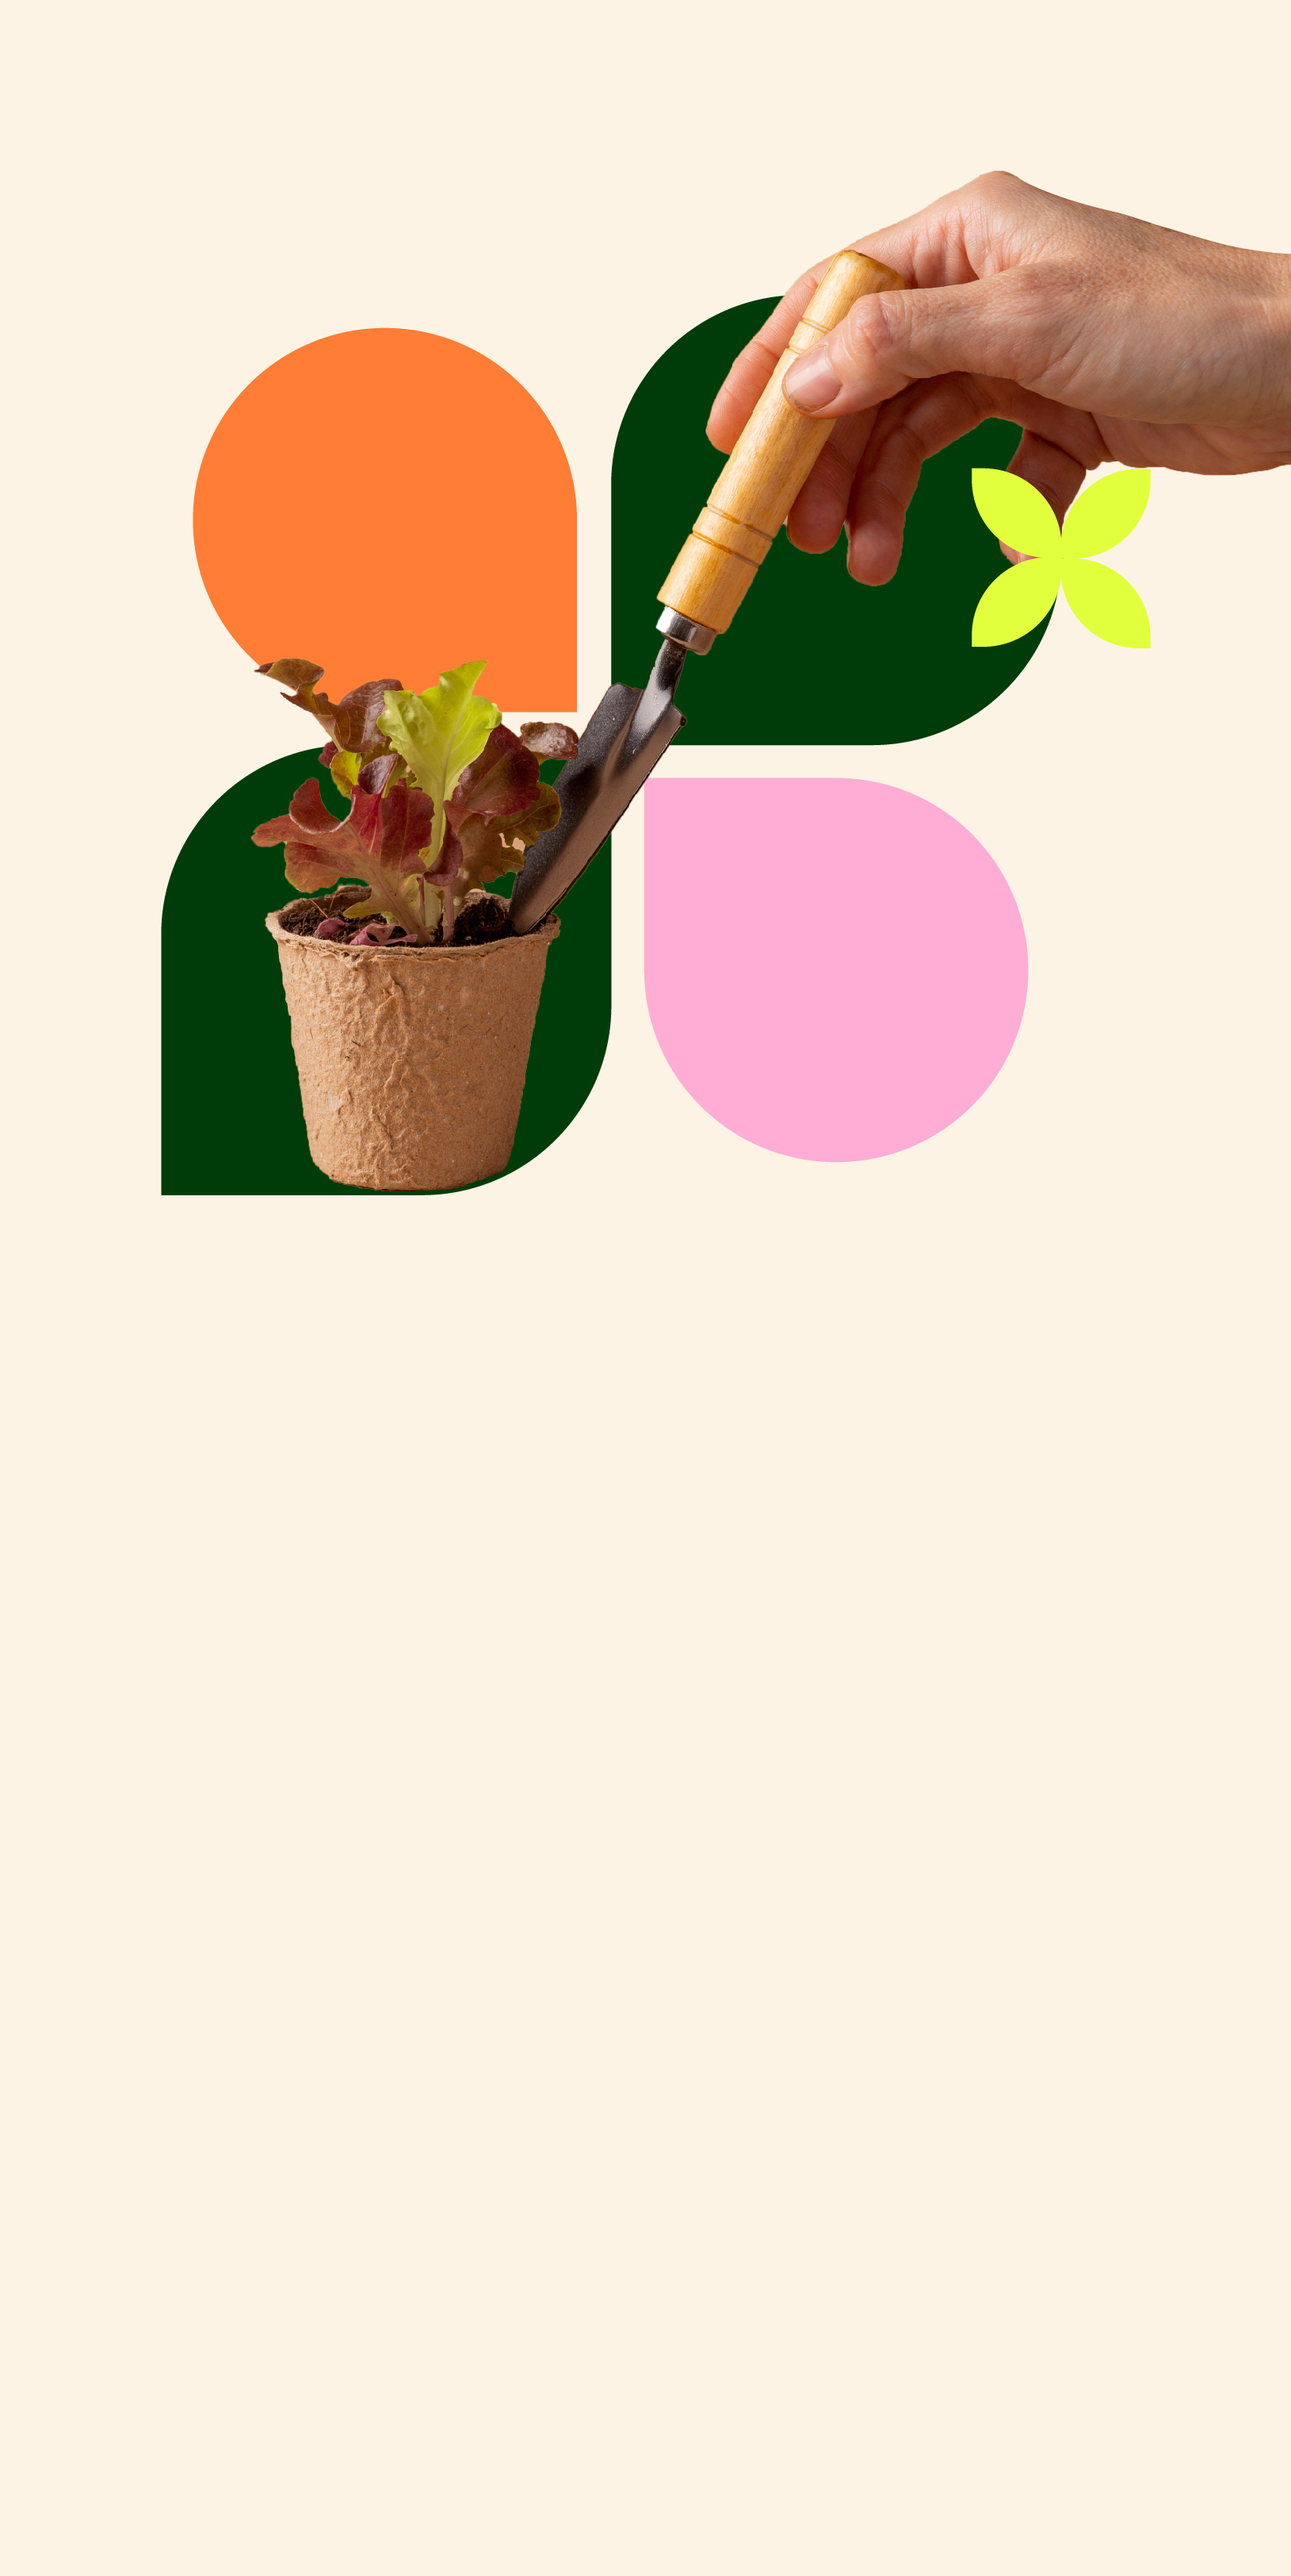
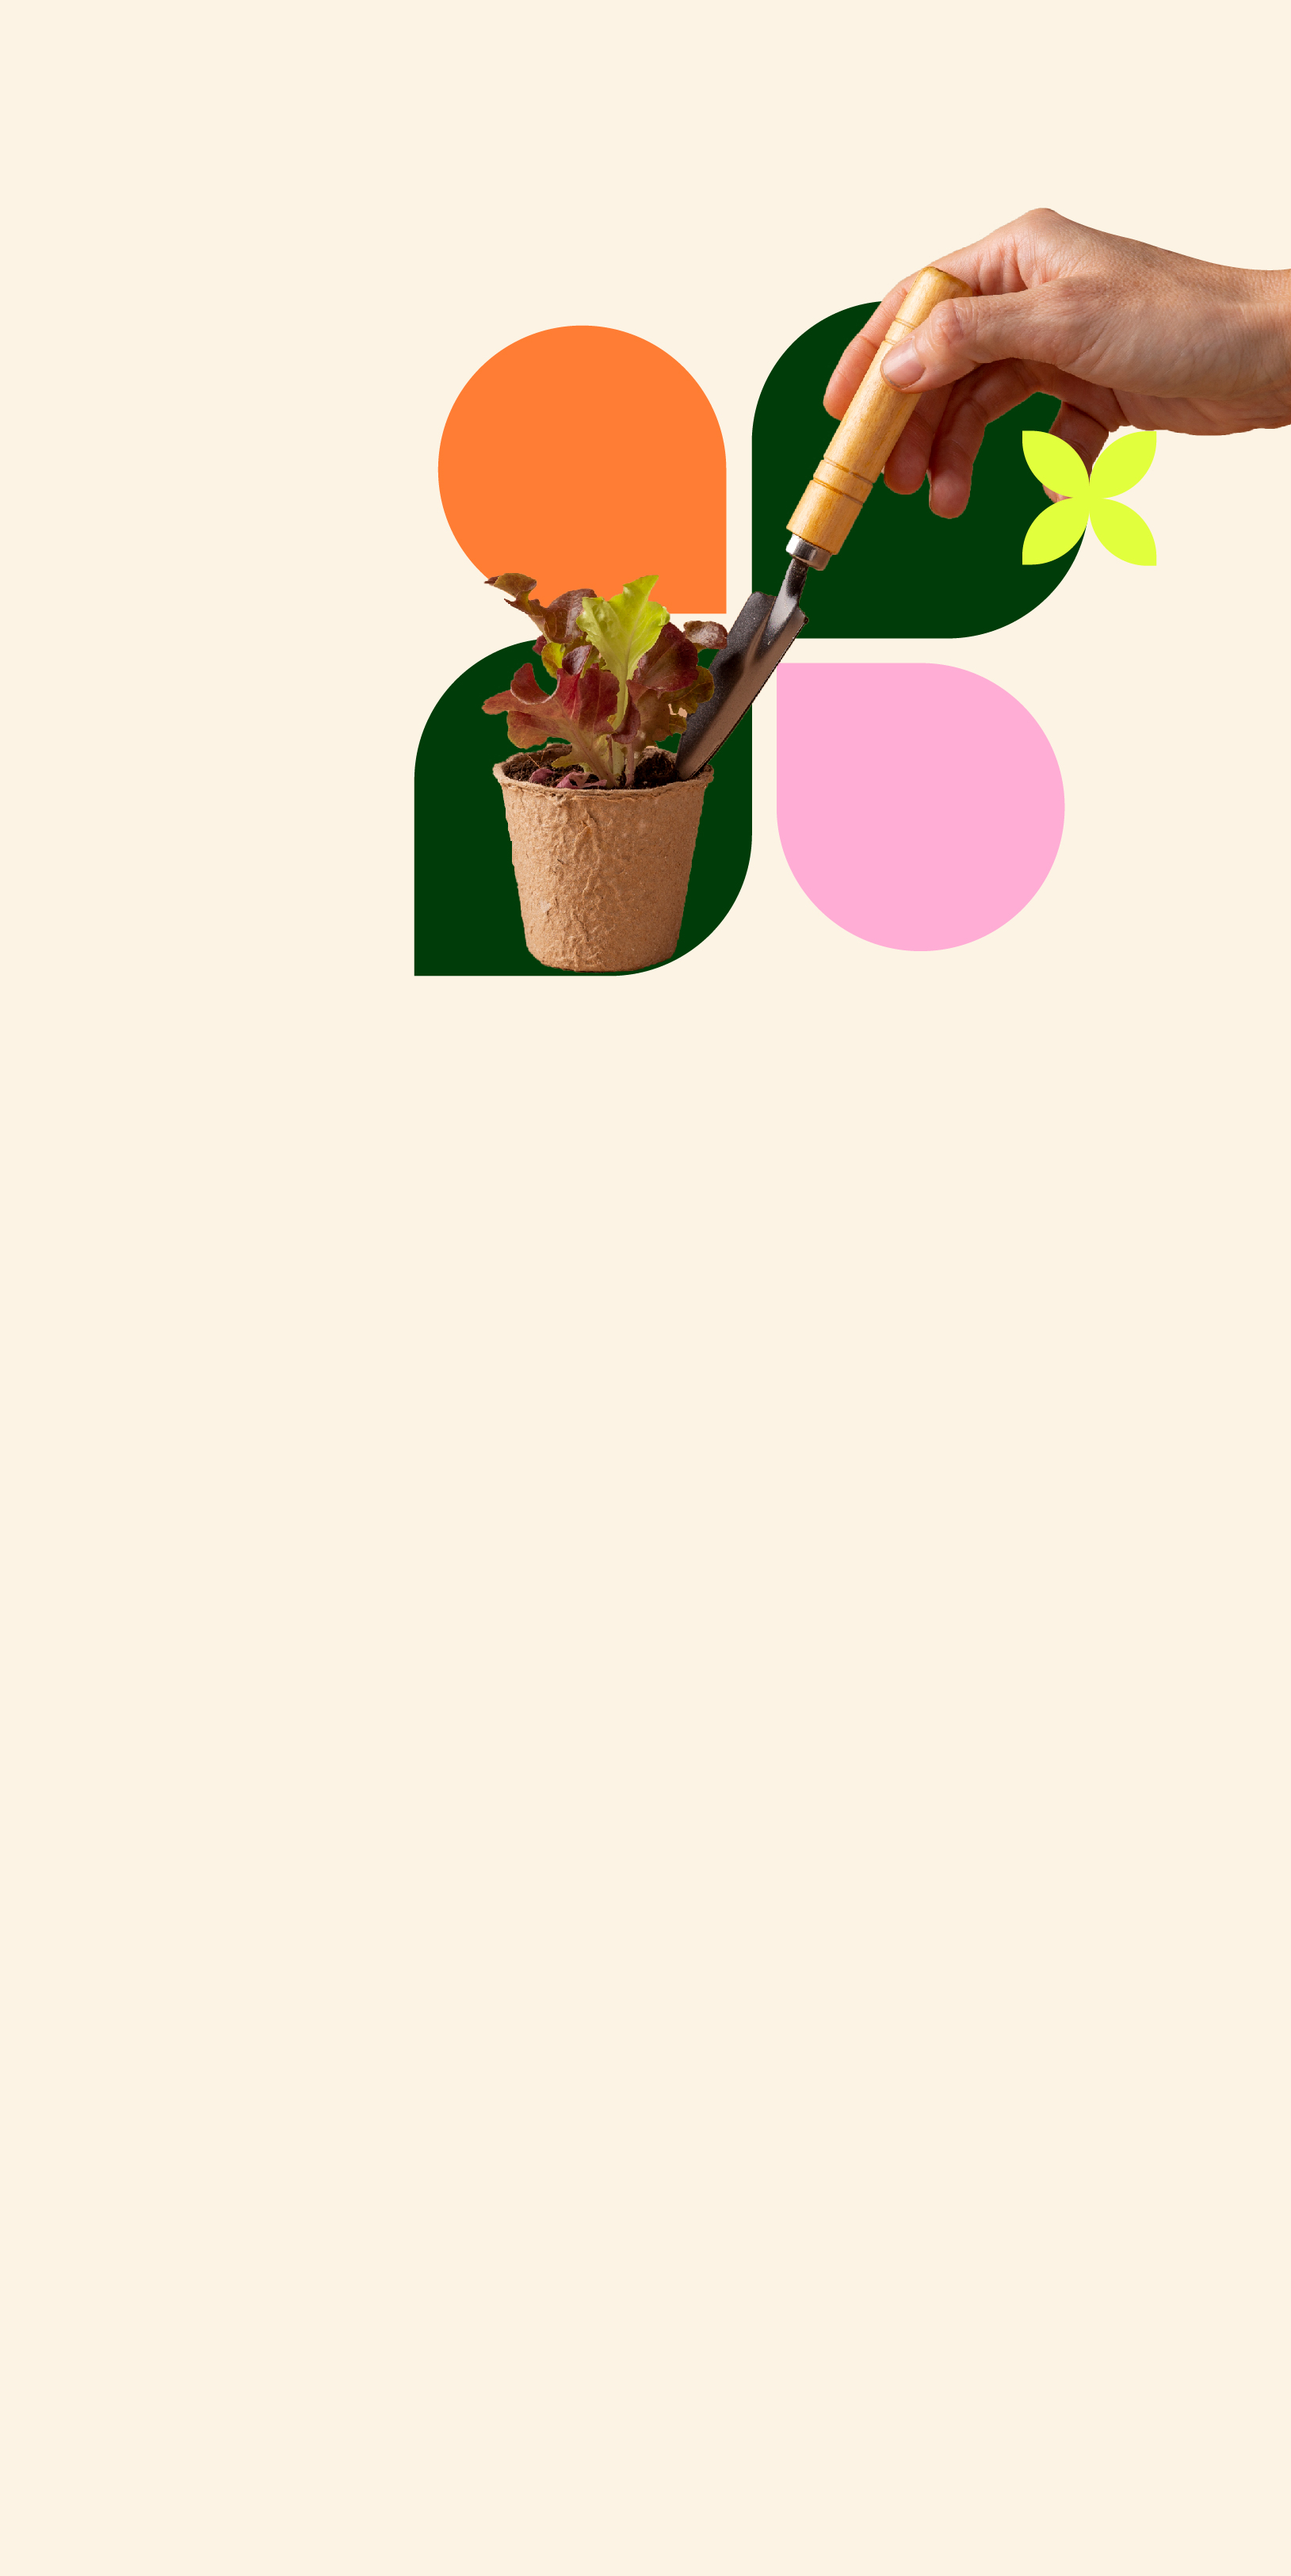
cambios

Changed region(s): [[0.1228, 0.0622, 1.0, 0.4662]]

diff --git a/assets/css/main.css b/assets/css/main.css
@@ -865,7 +865,7 @@ section,
 .hero {
   background-image: url("../../assets/img/hero1-mobile.jpg") ;
   background-position: center bottom;
-  padding: 150px 0 320px 10px;
+  padding: 0px 0 320px 10px;
 }
 
 
@@ -1101,18 +1101,56 @@ section,
 
 @media (max-width: 768px) {
 
+
+  .about {
+    padding-left: 8px;
+    padding-right: 8px;
+  }
+
   .about .icon-boxes .col-md-6:nth-child(2) .icon-box,
   .about .icon-boxes .col-md-6:nth-child(4) .icon-box {
     margin-top: 0;
   }
-}
+
+
+  .about .content h2 {
+    font-size: 32px;
+    font-weight: 700;
+    position: relative;
+    /* text-align: center; */
+  }
+
+
+/* .about p {
+
+text-align: center;
+padding-left: 10px;
+padding-right: 10px;
+} */
+
+
+
+
+  }
+
+
 
 /*--------------------------------------------------------------
 # Stats Section
 --------------------------------------------------------------*/
 .stats {
   --default-color: #FCF3E4;
-  --background-color: #FCF3E4;
+  /* --background-color: #FCF3E4; */
+
+
+
+  background-image: url("../../assets/img/stats-bg.jpg") ;
+  background-size: cover;
+  background-repeat: no-repeat;
+  background-position: center;
+
+
+
   position: relative;
   padding: 120px 0;
 }
@@ -1160,6 +1198,17 @@ section,
   font-weight: 700;
   color: color-mix(in srgb, var(--default-color), transparent 0%);
 }
+
+@media (max-width: 768px) {
+  .stats {
+background-image: url("../../assets/img/stats-mobile.jpg") ;
+background-size: cover;
+background-repeat: no-repeat;
+background-position: center;
+  }
+}
+
+
 
 /*--------------------------------------------------------------
 # Services Section
@@ -1355,6 +1404,13 @@ section,
   .features .features-item .features-img-bg {
     min-height: 300px;
   }
+
+  .features .container {
+    padding-left: 20px;
+    padding-right: 20px;
+  }
+
+
 }
 
 .features .features-item .features-img-bg img {
@@ -2169,7 +2225,7 @@ color: #FCF3E4
 
 .contact {
 
-  padding-bottom: 100px;
+  padding-bottom: 80px;
 
 }
 
@@ -2350,6 +2406,11 @@ color: #FCF3E4
 --------------------------------------------------------------*/
 .portfolio-details .portfolio-details-slider img {
   width: 100%;
+}
+
+.portfolio{
+padding-bottom: 80px;
+
 }
 
 .portfolio-details .swiper-wrapper {
@@ -3640,8 +3701,8 @@ color: #FCF3E4
 
   .hero2 {
     background-image: url("../../assets/img/hero3-mobile.jpg") ;
-    background-position: center top;
-    padding: 550px 0 100px 10px;
+    background-position: right top;
+    padding: 450px 0 100px 10px;
   
   }
 

diff --git a/pag-detalle.html b/pag-detalle.html
@@ -201,7 +201,7 @@
         </div>
       </div>
 
-
+ 
       
     </div><!-- Features Item -->
 
@@ -232,7 +232,7 @@
    <!-- Stats Section -->
     <section id="stats" class="stats section">
 
-      <img src="assets/img/stats-bg.jpg" alt="" data-aos="fade-in">
+      <!-- <img src="assets/img/stats-bg.jpg" alt="" data-aos="fade-in"> -->
 
       <div class="container position-relative" data-aos="fade-up" data-aos-delay="100">
 
